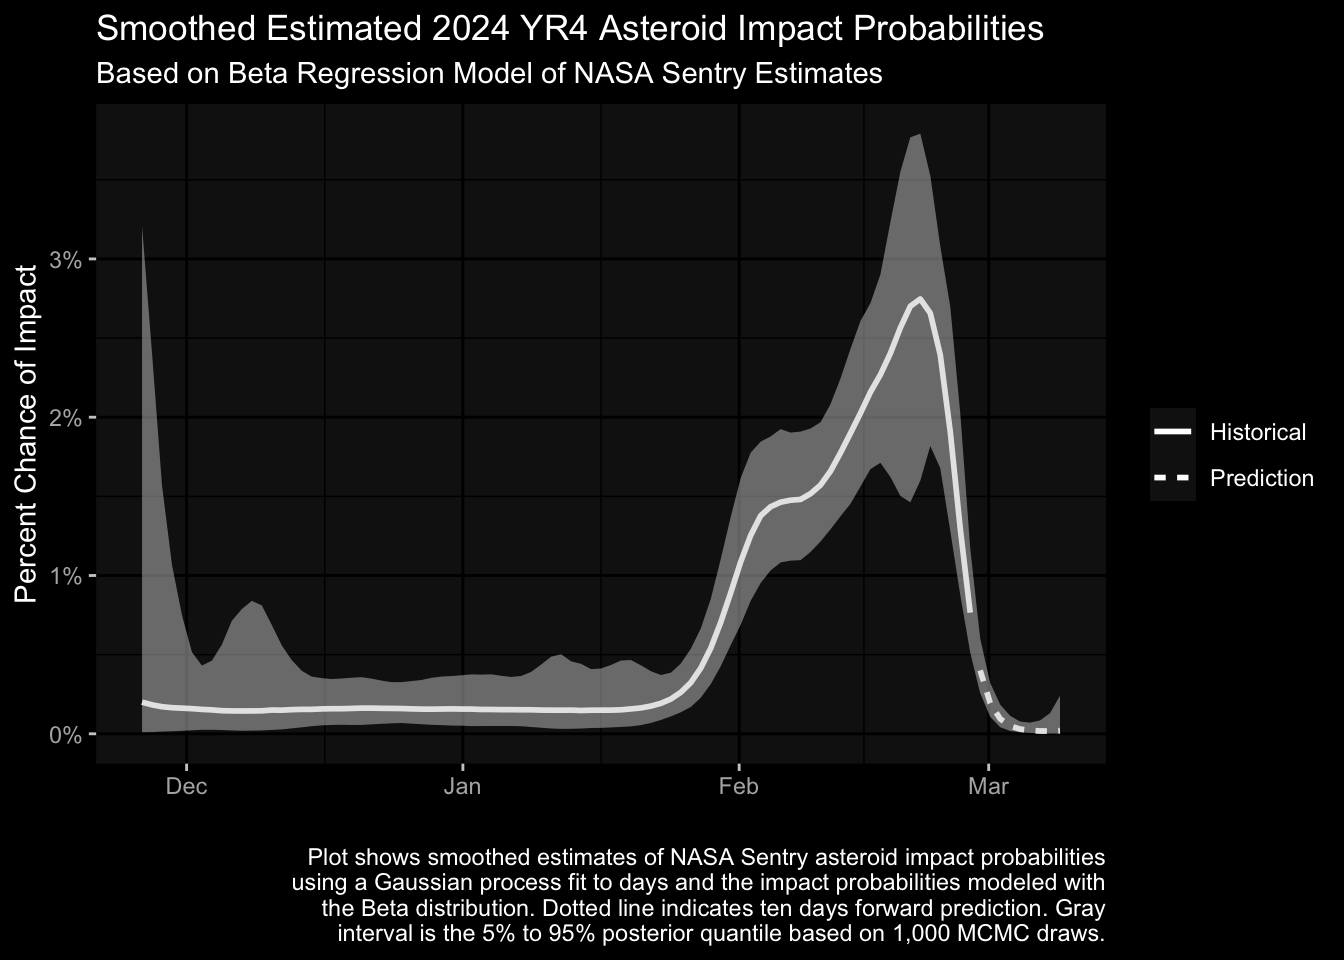
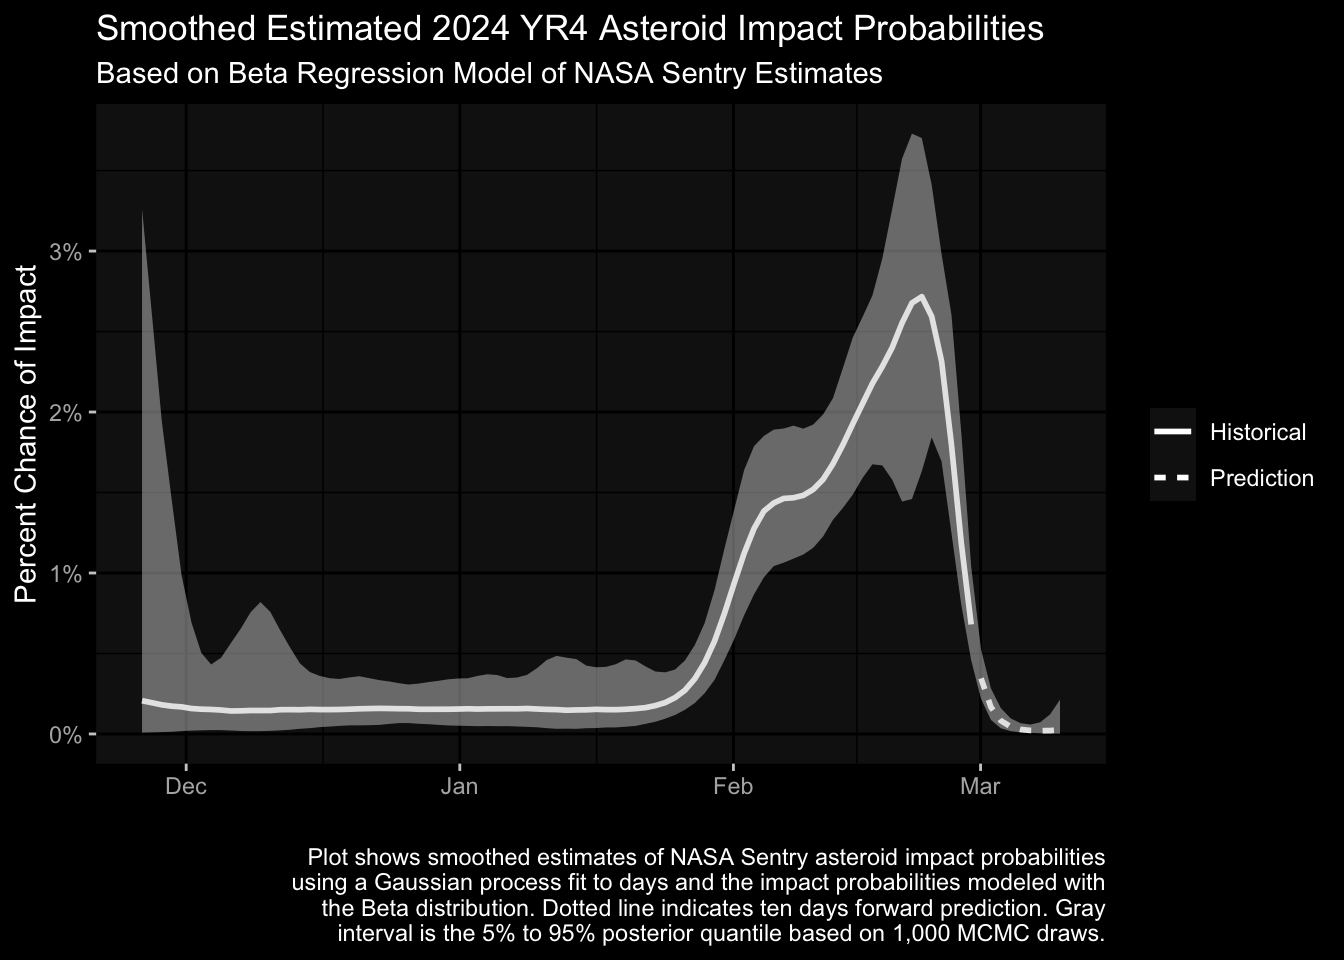
NASA Sentry smoother prediction 2025-02-28

diff --git a/_site/post/nasa_beta/index.html b/_site/post/nasa_beta/index.html
@@ -409,12 +409,12 @@ gtag('config', 'G-BHP1PJ9LEX', { 'anonymize_ip': true});
 <div class="cell-output cell-output-stdout">
 <pre><code>Running MCMC with 2 chains, at most 8 in parallel...
 
-Chain 1 finished in 43.7 seconds.
-Chain 2 finished in 47.9 seconds.
+Chain 1 finished in 50.8 seconds.
+Chain 2 finished in 55.2 seconds.
 
 Both chains finished successfully.
-Mean chain execution time: 45.8 seconds.
-Total execution time: 48.1 seconds.</code></pre>
+Mean chain execution time: 53.0 seconds.
+Total execution time: 55.3 seconds.</code></pre>
 </div>
 <details class="code-fold">
 <summary>Show the code</summary>
@@ -562,7 +562,7 @@ Total execution time: 48.1 seconds.</code></pre>
 </section>
 <section id="current-estimates" class="level2">
 <h2 class="anchored" data-anchor-id="current-estimates">Current Estimates</h2>
-<p>As mentioned above, NASA has released more estimates since February 18th. In this section, I re-fit the model and predict for up to 10 days head using all of their Sentry data going back to November 2024. I will keep updating this section on a daily basis as more data comes in. The estimates below are current as of <strong>Thursday, February 27, 2025</strong>.</p>
+<p>As mentioned above, NASA has released more estimates since February 18th. In this section, I re-fit the model and predict for up to 10 days head using all of their Sentry data going back to November 2024. I will keep updating this section on a daily basis as more data comes in. The estimates below are current as of <strong>Friday, February 28, 2025</strong>.</p>
 <p>This code fits the model to the current data:</p>
 <div class="cell" data-layout-align="center">
 <details class="code-fold">
@@ -602,12 +602,12 @@ Total execution time: 48.1 seconds.</code></pre>
 <div class="cell-output cell-output-stdout">
 <pre><code>Running MCMC with 2 chains, at most 8 in parallel...
 
-Chain 2 finished in 34.6 seconds.
-Chain 1 finished in 54.0 seconds.
+Chain 1 finished in 37.4 seconds.
+Chain 2 finished in 39.9 seconds.
 
 Both chains finished successfully.
-Mean chain execution time: 44.3 seconds.
-Total execution time: 54.2 seconds.</code></pre>
+Mean chain execution time: 38.7 seconds.
+Total execution time: 40.1 seconds.</code></pre>
 </div>
 </div>
 <p>And here are the model predictions with 10 days ahead plus fitted estimates to all previous NASA Sentry predictions:</p>
